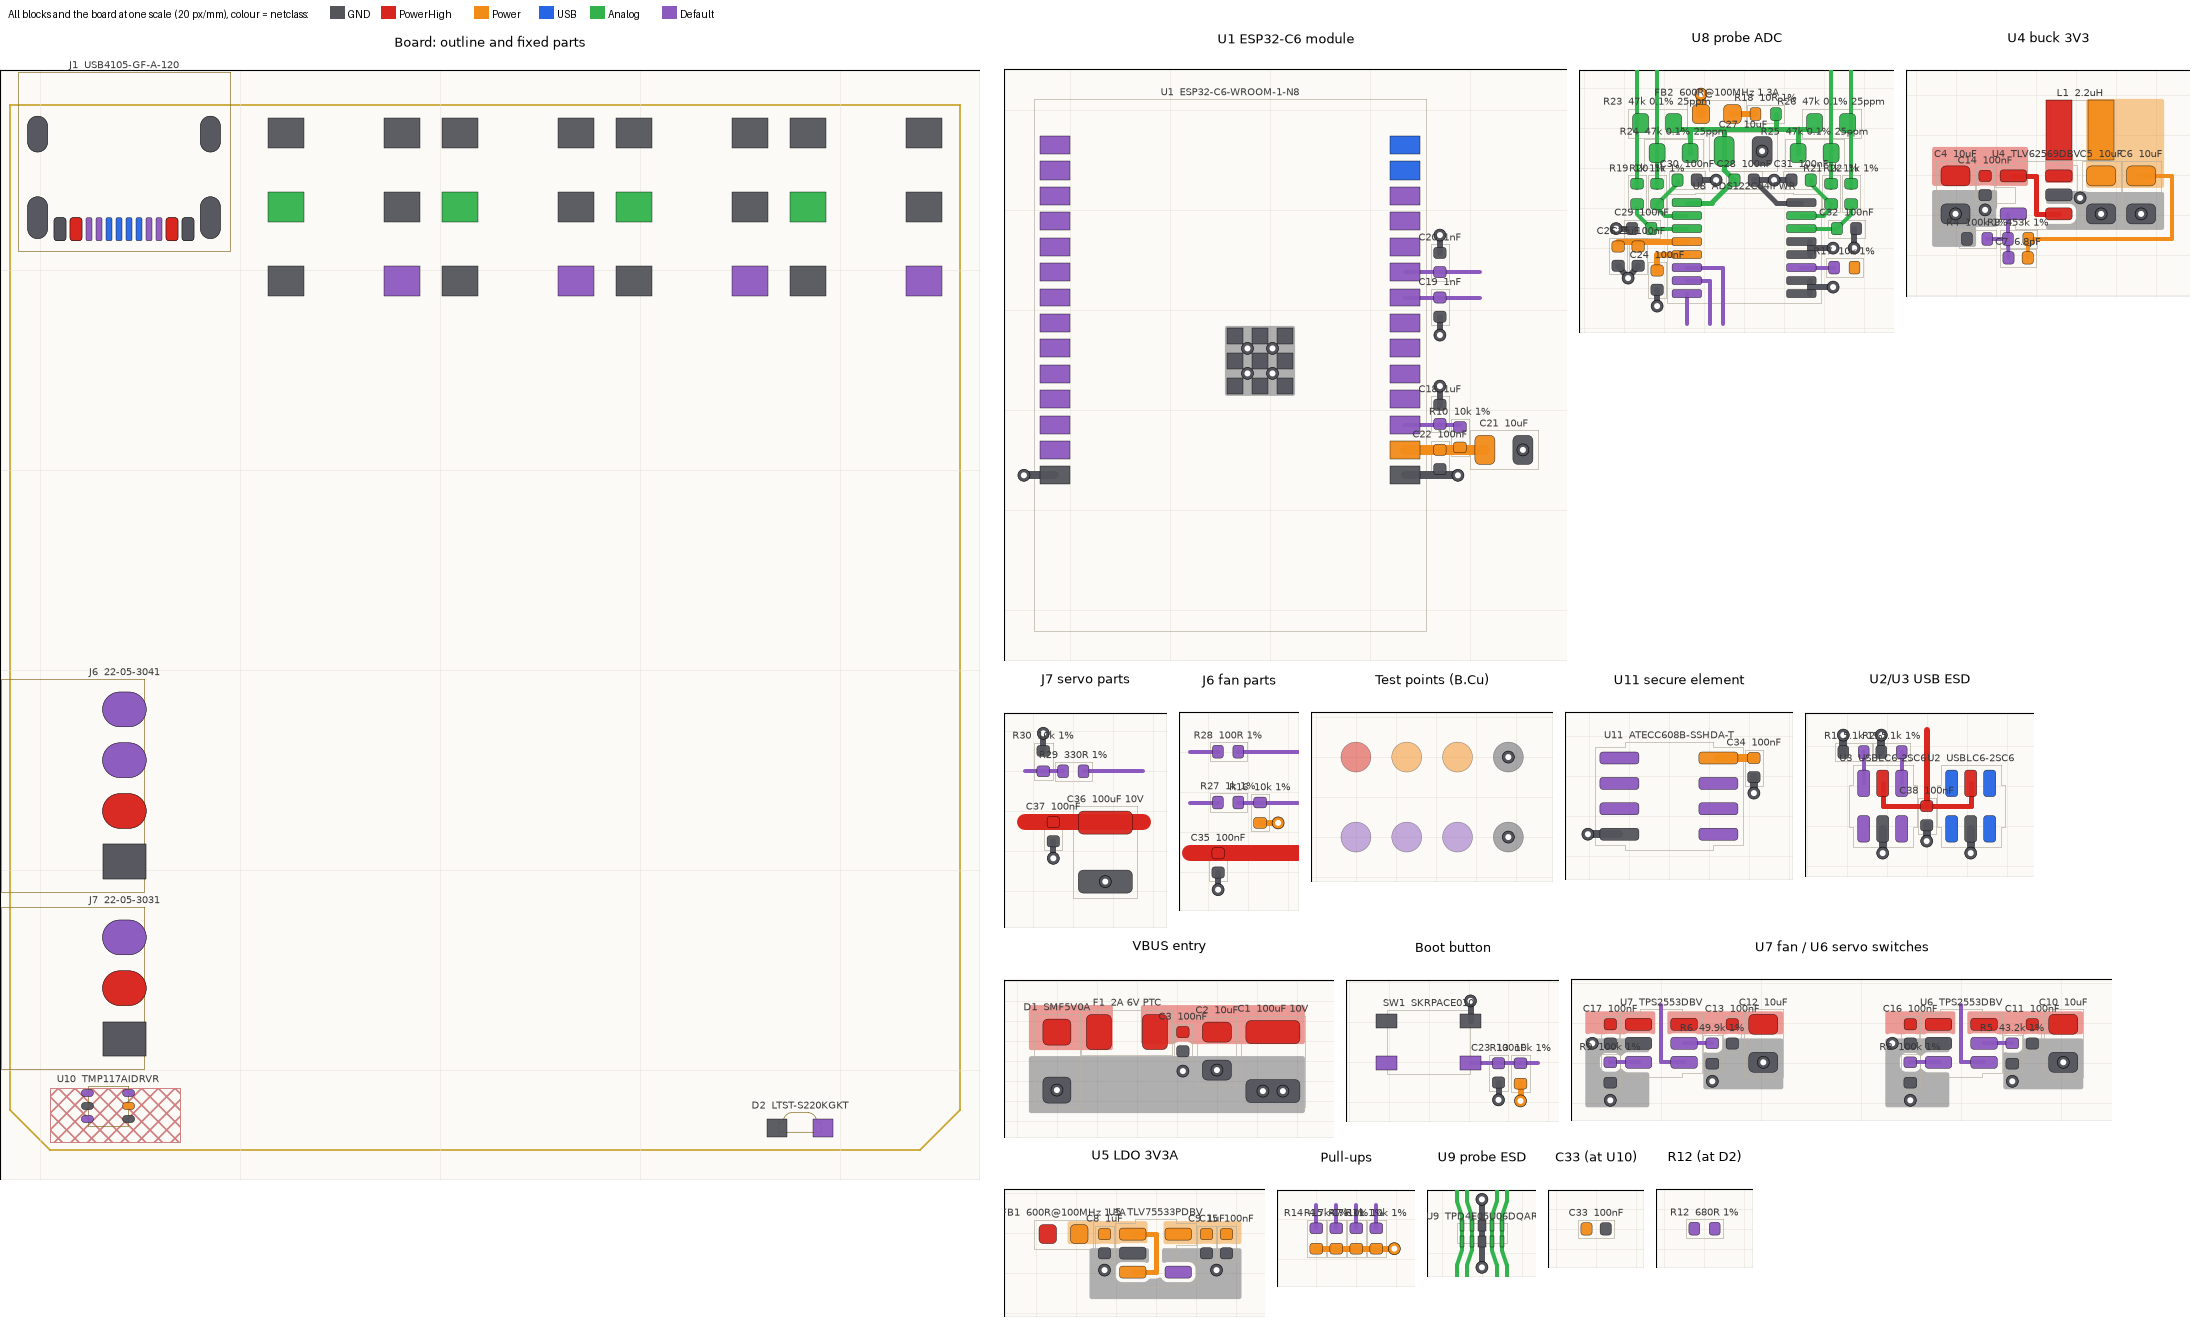
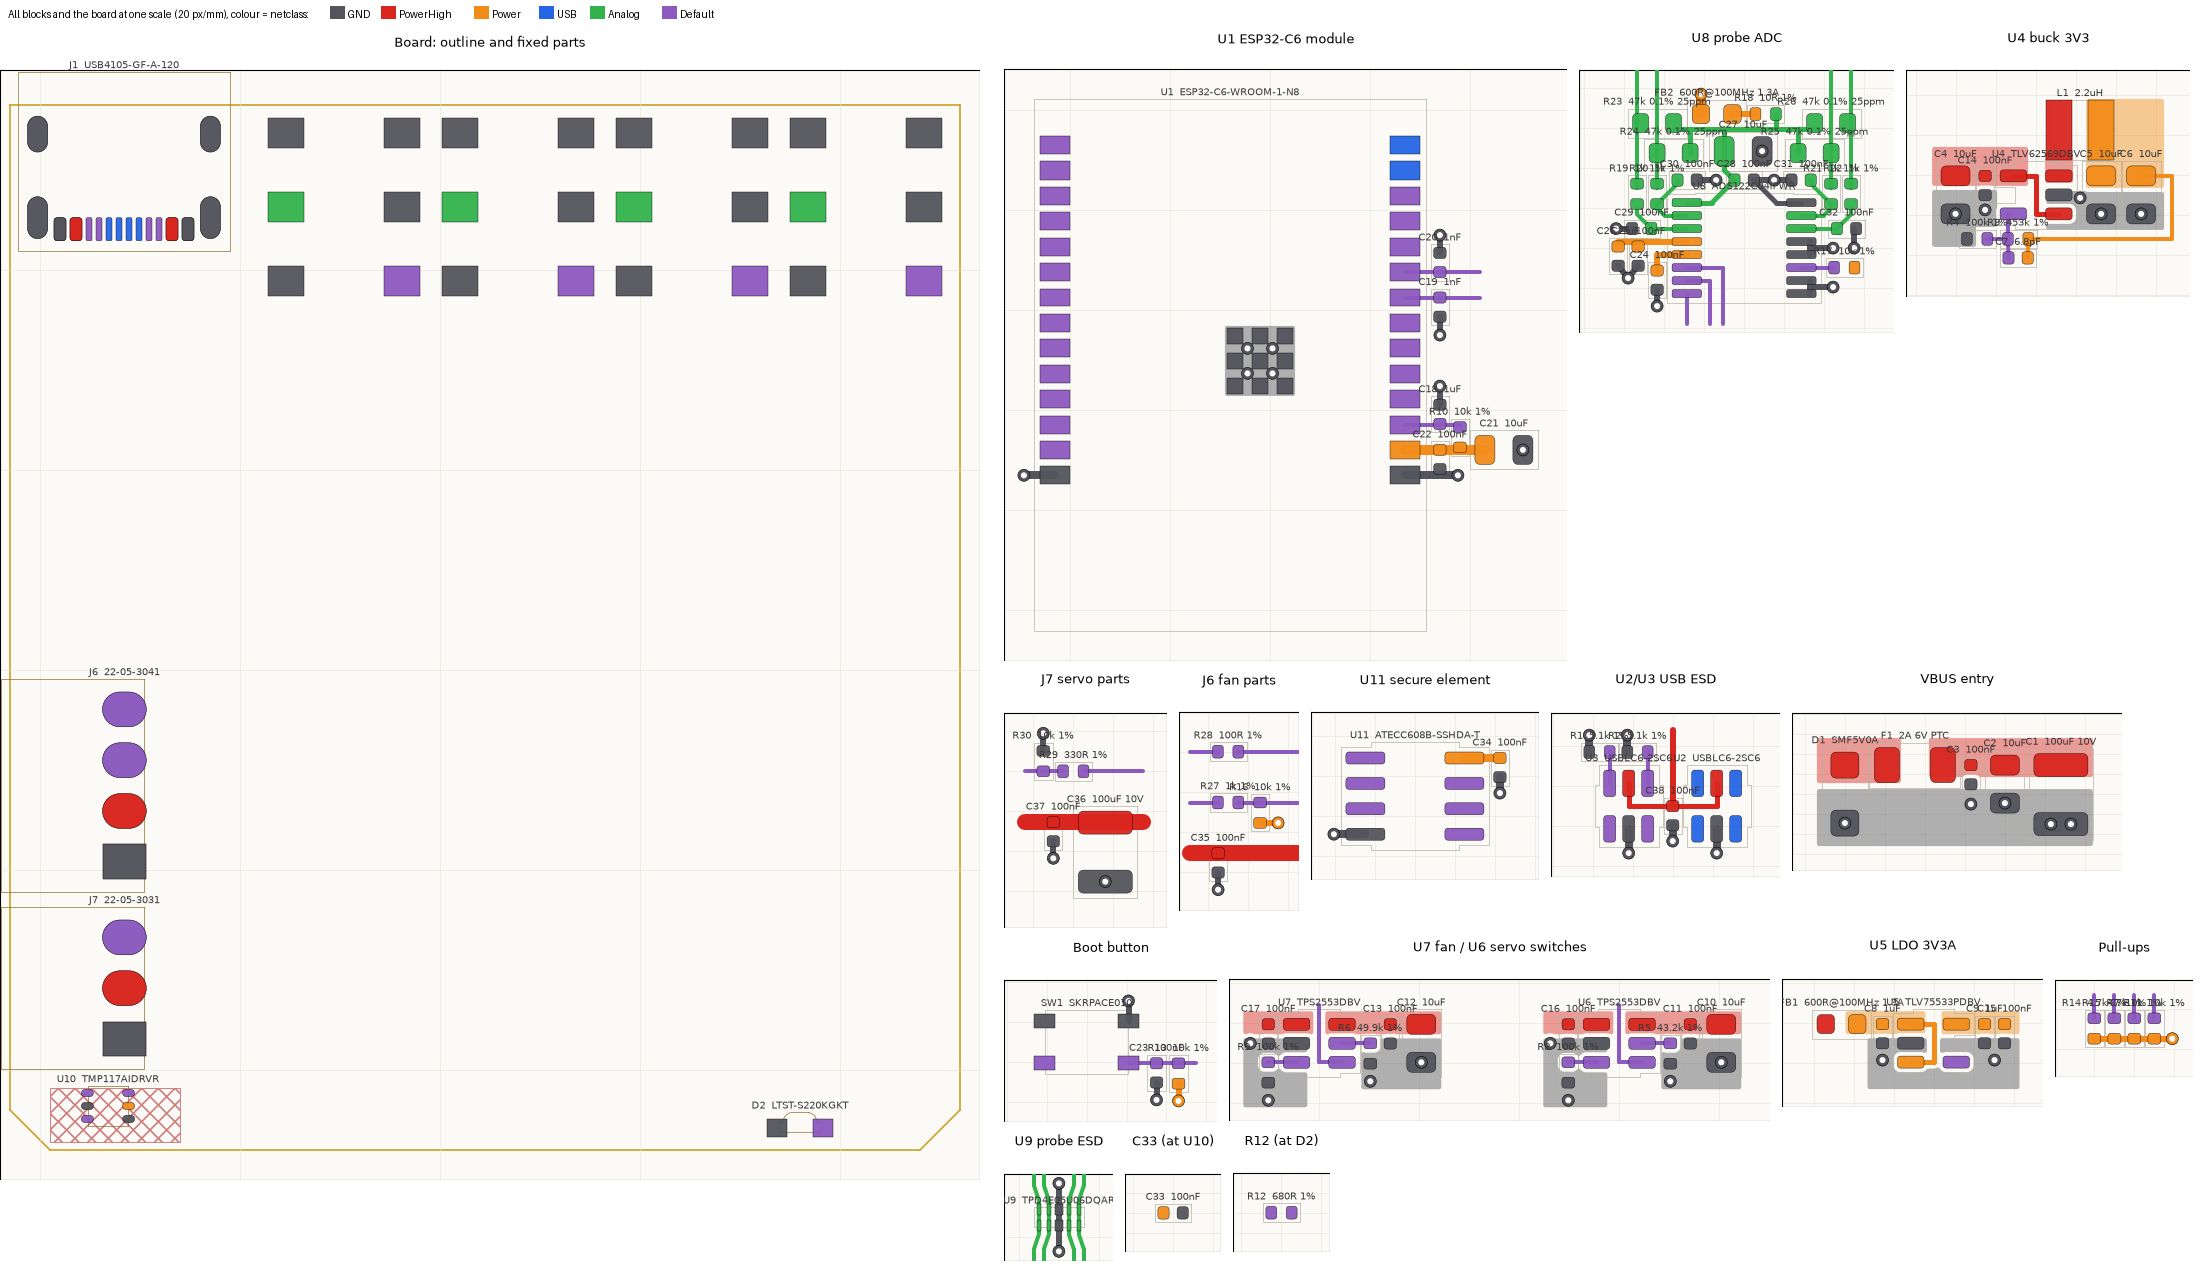
Test points last (bead axk.5): out of the montage and the placement review; board mounted upside down noted (SW1 on F.Cu faces the pan-floor hole)

diff --git a/hw/tools/montage.py b/hw/tools/montage.py
@@ -34,7 +34,6 @@ BLOCKS = [
     ("J7 servo parts", "R29,R30,C36,C37"),
     ("Boot button", "SW1,R13,C23"),
     ("Pull-ups", "R14,R15,R7,R11"),
-    ("Test points (B.Cu)", "TP1,TP2,TP3,TP4,TP5,TP6,TP7,TP8"),
     ("C33 (at U10)", "C33"),
     ("R12 (at D2)", "R12"),
 ]

diff --git a/.claude/skills/pcb-relayout/SKILL.md b/.claude/skills/pcb-relayout/SKILL.md
@@ -62,7 +62,7 @@ U5 LDO (40), U7 fan switch (60), U6 servo switch (75), U2/U3 ESD + C38 + R1/R2 (
 D1/F1/C1-C3 (110-121); row y 95-102: U9 probe ESD (20, 95; jack side up), U11 (40, 95), U8 ADC (80, 102; jacks
 above, MCU below), U1 module (108, 100; antenna down, with C21/C22, R10/C18, C19/C20; unlocked). Small groups
 (hw/layout/README.md): J6 parts (40, 110), J7 parts (55, 110), boot button SW1/R13/C23 (20, 115; enclosure hole
-follows SW1), pull-ups R14/R15/R7/R11 (70, 115), test points TP1-TP8 on B.Cu (50-58, 92-96), C33 (82, 115; goes at
+follows SW1), pull-ups R14/R15/R7/R11 (70, 115), test points TP1-TP8 on B.Cu (50-58, 92-96; placed and routed LAST, bead axk.5, not in the review), C33 (82, 115; goes at
 U10 pins 5/4), R12 (86, 115; goes by D2). Still off-sheet: H1-H3, FID1-FID3 (last phase). Placement review input:
 `hw/tools/montage.py` -> hw/layout/montage.png (every block and the board at one scale, by netclass). The J1 fan-out (D+/D- merge with the In2 hop, CC, VBUS) is drawn when
 U2/U3 go behind J1 (geometry in bead minimeat-bk4).
@@ -105,5 +105,8 @@ if it was rewritten, and reopen. Check with Konnect get_netclasses.
   below the pad row (not a trace under the connector).
 - U9 TPD4E05U06: NC pins tied to the tips (1/10, 2/9, 4/7, 5/6) for the datasheet's straight-through routing.
 - The router scripts are retired; layout is by hand from renders.
+- The board is mounted upside down in the enclosure: F.Cu faces the pan floor (SW1 on F.Cu faces its paper-clip
+  hole), B.Cu faces up.
+- Test points go last, after routing, on B.Cu wherever room is left.
 - Hardware rules from memory still hold: JLCPCB assembly, every part in JLC stock, all SMT on F.Cu, prefer the
   better part.

diff --git a/hw/layout/README.md b/hw/layout/README.md
@@ -174,10 +174,12 @@ as small groups in staging:
   with a 3V3 via, C35 on VFAN with its ground via.
 - J7 servo parts (55, 110), same idea (SIG, VSERVO, GND): R29 series, R30 pull-down on the connector side, C37
   100 nF then C36 100 uF on VSERVO, ground vias (in C36's pad).
-- Boot button (20, 115): SW1 (reached through a paper-clip hole in the enclosure; free to move, the hole follows),
+- Boot button (20, 115): SW1 (the board is mounted upside down, so SW1 on F.Cu faces the paper-clip hole in the pan
+  floor; free to move, the hole follows),
   C23 debounce and R13 pull-up on the BTN line, ground and 3V3 vias.
 - Pull-ups (70, 115): R14 SDA, R15 SCL, R7 LOAD_FAULT, R11 DRDY in U1's left-column order on one 3V3 via.
 - Test points (50-58, 92-96, B.Cu): TP1-TP4 VBUS_F, 3V3, 3V3A, GND; TP5-TP8 EN, UART TX, RX, GND; vias in the GND
-  pads.
+  pads. They are placed and routed LAST (bead minimeat-axk.5), on B.Cu wherever room is left, so they are not in the
+  montage or the placement review.
 - C33 (TMP117 bypass) goes right at U10's pins 5/4 (the no-copper area around U10 bans pours only, not tracks);
   R12 goes beside D2.
